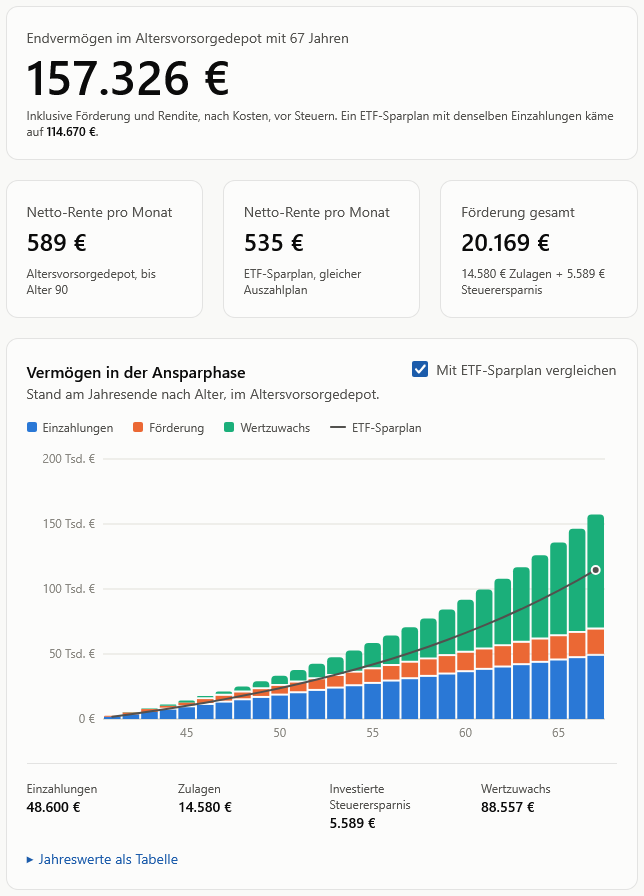
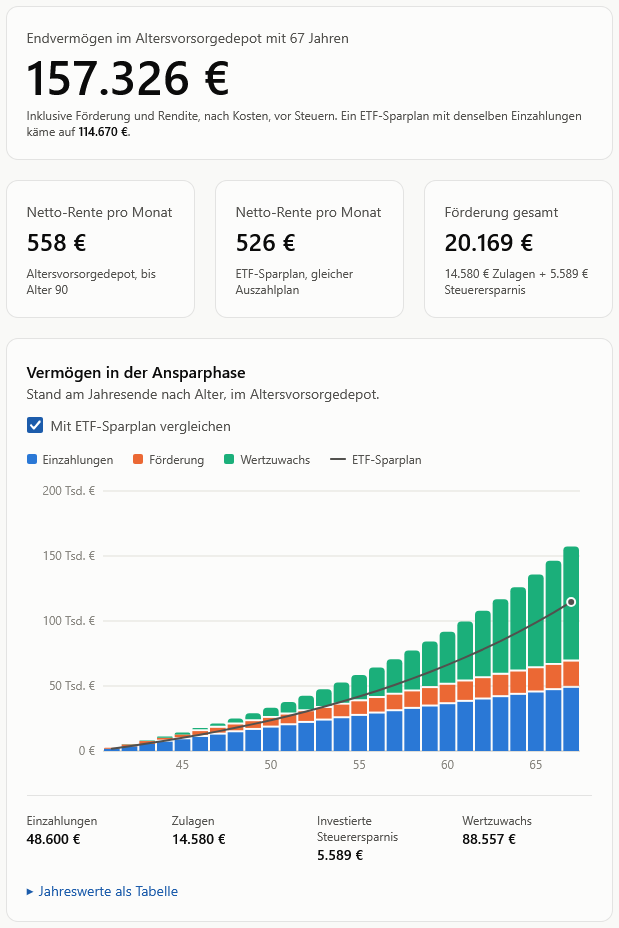
Account for inflation by default; say that the desired pension is in today's purchasing power
The landing page screenshots use a desired pension of 1,850 and the new default.

diff --git a/src/lib/i18n/de.ts b/src/lib/i18n/de.ts
@@ -188,7 +188,7 @@ const numbers: NumberTexts = {
     desiredPension: {
       label: "Monatliche Wunschrente (netto)",
       unit: "€ / Monat",
-      hint: "Netto, was du im Ruhestand zur Verfügung haben möchtest.",
+      hint: "Netto, in heutiger Kaufkraft, was du im Ruhestand zur Verfügung haben möchtest.",
     },
   },
   savings: {
@@ -222,7 +222,7 @@ const toggles: ToggleTexts = {
   shared: {
     considerInflation: {
       label: "Inflation berücksichtigen",
-      hint: "Rentenlücke-Rechner: Renditen nach Abzug der Inflationsrate. AV-Depot-Rechner: Einkommen im Ruhestand auf den Renteneintritt hochgerechnet.",
+      hint: "Rentenlücke-Rechner: Die Wunschrente zählt in heutiger Kaufkraft, die Renditen sinken um die Inflationsrate. AV-Depot-Rechner: Einkommen im Ruhestand auf den Renteneintritt hochgerechnet.",
     },
   },
   "av-depot": {},
@@ -381,7 +381,7 @@ const fieldInfo: FieldInfoTexts = {
     exemptionOrder:
       "Kapitalerträge bis zu diesem Betrag bleiben pro Jahr steuerfrei: 1.000 € für Einzelpersonen, 2.000 € für zusammen Veranlagte. Trage ein, was davon für diese Geldanlage noch frei ist.",
     considerInflation:
-      "Mit Haken wird die Inflationsrate dort berücksichtigt, wo die globalen Werte eine Rolle spielen. Rentenlücke-Rechner: Er rechnet mit der Rendite nach Abzug der Inflationsrate, die Ergebnisse stehen in heutiger Kaufkraft. AV-Depot-Rechner: Das Einkommen im Ruhestand (in heutiger Kaufkraft eingetragen) wird auf das Jahr des Renteneintritts hochgerechnet, bevor die Steuer auf die Auszahlungen berechnet wird; Endvermögen und Renten bleiben nominal, also in künftigen Euro. Ohne Haken sind beide nominal und das Einkommen gilt unverändert. Unabhängig vom Haken rechnet der Gesamtplan immer in heutiger Kaufkraft, Sparrechner und Entnahmeplan haben einen eigenen Schalter und nutzen dann die hier eingestellte Inflationsrate.",
+      "Mit Haken wird die Inflationsrate dort berücksichtigt, wo die globalen Werte eine Rolle spielen. Rentenlücke-Rechner: Die Wunschrente und die Rentenansprüche sind Beträge von heute. Mit Haken rechnet der Rechner deshalb in heutiger Kaufkraft: mit der Rendite nach Abzug der Inflationsrate, sodass auch nötiges Kapital und Sparrate in heutiger Kaufkraft stehen. Ohne Haken würde die Wunschrente wie ein Betrag im Jahr des Renteneintritts behandelt und der Bedarf unterschätzt. AV-Depot-Rechner: Das Einkommen im Ruhestand (in heutiger Kaufkraft eingetragen) wird auf das Jahr des Renteneintritts hochgerechnet, bevor die Steuer auf die Auszahlungen berechnet wird; Endvermögen und Renten bleiben nominal, also in künftigen Euro. Ohne Haken sind beide nominal und das Einkommen gilt unverändert. Unabhängig vom Haken rechnet der Gesamtplan immer in heutiger Kaufkraft, Sparrechner und Entnahmeplan haben einen eigenen Schalter und nutzen dann die hier eingestellte Inflationsrate.",
   },
   "av-depot": {
     savingsRateMonthly:
@@ -411,7 +411,7 @@ const fieldInfo: FieldInfoTexts = {
     yearlyTaxFreeAmount:
       "Einkommen bis zu diesem Betrag bleibt pro Jahr steuerfrei. Der Grundfreibetrag wird jedes Jahr angepasst.",
     desiredPension:
-      "Der Betrag, den du im Ruhestand monatlich netto zur Verfügung haben möchtest. Als Faustregel gelten etwa 80 % des letzten Nettoeinkommens.",
+      "Der Betrag, den du im Ruhestand monatlich netto zur Verfügung haben möchtest, in heutiger Kaufkraft. Mit „Inflation berücksichtigen“ rechnet der Rentenlücke-Rechner damit; ohne den Haken würde der Betrag wie ein Betrag im Jahr des Renteneintritts behandelt. Als Faustregel gelten etwa 80 % des letzten Nettoeinkommens.",
   },
   savings: {
     savingsRateMonthly:
@@ -547,19 +547,19 @@ export const de = {
     ],
     screenshotsHeading: "So sieht es aus",
     screenshotsNote:
-      "Beispiel mit gerundeten Werten, angelehnt an einen durchschnittlichen Arbeitnehmer in Deutschland: 40 Jahre alt, 42.000 € zu versteuerndes Einkommen, 15.000 € Startkapital, 300 € pro Monat zum Investieren, 1.500 € gesetzliche Rente und 1.900 € Wunschrente. Das sind Annahmen zur Veranschaulichung, keine Prognose.",
+      "Beispiel mit gerundeten Werten, angelehnt an einen durchschnittlichen Arbeitnehmer in Deutschland: 40 Jahre alt, 42.000 € zu versteuerndes Einkommen, 15.000 € Startkapital, 300 € pro Monat zum Investieren, 1.500 € gesetzliche Rente und 1.850 € Wunschrente. Das sind Annahmen zur Veranschaulichung, keine Prognose.",
     screenshots: {
       plan: {
         title: "Gesamtplan",
         caption:
           "Reicht die Sparrate? Der Plan zeigt, mit welcher Wahrscheinlichkeit die Wunschrente erreicht wird, welchen Korridor dein Vermögen durchläuft und wie viel mehr oder weniger du sparen solltest.",
-        alt: "Gesamtplan mit Status „Im Plan“, 86 % Wahrscheinlichkeit und dem Diagramm des Vermögens bis zum Renteneintritt",
+        alt: "Gesamtplan mit Status „Im Plan“, 91 % Wahrscheinlichkeit und dem Diagramm des Vermögens bis zum Renteneintritt",
       },
       pensionGap: {
         title: "Rentenlücke",
         caption:
           "Was zwischen erwarteter Rente und Wunschrente fehlt – und welches Kapital und welche Sparrate die Lücke schließen.",
-        alt: "Rentenlückenrechner mit 386 € Lücke pro Monat sowie nötigem Kapital und nötiger Sparrate",
+        alt: "Rentenlückenrechner mit 336 € Lücke pro Monat sowie nötigem Kapital und nötiger Sparrate",
       },
       avDepot: {
         title: "Altersvorsorgedepot",
@@ -1205,7 +1205,7 @@ export const de = {
     phase: "Phase",
     assumptions: [
       "Der Steuerabzug gilt für die Rente oberhalb des Grundfreibetrags und für die Erträge im Ruhestand; die Kapitalertragsteuer mindert die Rendite bis zur Rente.",
-      "Mit Inflation wird mit Renditen nach Abzug der Inflationsrate gerechnet; Rente und Wunschrente bleiben in heutiger Kaufkraft.",
+      "Mit „Inflation berücksichtigen“ (Voreinstellung) gilt die Wunschrente als Betrag in heutiger Kaufkraft: Es wird mit Renditen nach Abzug der Inflationsrate gerechnet, und Kapital, Sparrate und Rentenlücke stehen in heutiger Kaufkraft. Ohne den Haken würde die Wunschrente wie ein Betrag im Jahr des Renteneintritts behandelt.",
       "Sparraten fließen am Monatsende, Entnahmen am Monatsanfang; Zinsen monatlich.",
       "Kranken- und Pflegeversicherung auf die Rente sind nicht berücksichtigt.",
       "Formeln aus den Ergebnissen des Finanzfluss-Rechners hergeleitet.",

diff --git a/src/lib/i18n/en.ts b/src/lib/i18n/en.ts
@@ -35,19 +35,19 @@ export const en: Dictionary = {
     ],
     screenshotsHeading: "What it looks like",
     screenshotsNote:
-      "Example with rounded values, modelled on an average employee in Germany: 40 years old, €42,000 taxable income, €15,000 starting capital, €300 per month to invest, €1,500 statutory pension and a desired pension of €1,900. These are assumptions for illustration, not a forecast.",
+      "Example with rounded values, modelled on an average employee in Germany: 40 years old, €42,000 taxable income, €15,000 starting capital, €300 per month to invest, €1,500 statutory pension and a desired pension of €1,850. These are assumptions for illustration, not a forecast.",
     screenshots: {
       plan: {
         title: "Overall plan",
         caption:
           "Is the savings rate enough? The plan shows how likely the desired pension is to be reached, the corridor your wealth moves in, and how much more or less you should save.",
-        alt: "Overall plan with the status “On plan”, 86% probability and the chart of wealth until retirement",
+        alt: "Overall plan with the status “On plan”, 91% probability and the chart of wealth until retirement",
       },
       pensionGap: {
         title: "Pension gap",
         caption:
           "What is missing between the expected pension and the desired pension – and which capital and savings rate close the gap.",
-        alt: "Pension gap calculator showing a gap of €386 per month and the capital and savings rate needed",
+        alt: "Pension gap calculator showing a gap of €336 per month and the capital and savings rate needed",
       },
       avDepot: {
         title: "Altersvorsorgedepot",
@@ -232,7 +232,7 @@ export const en: Dictionary = {
       exemptionOrder:
         "Investment income up to this amount stays tax-free per year: €1,000 for single persons, €2,000 for couples assessed jointly. Enter what is still available for this investment.",
       considerInflation:
-        "Checked, the inflation rate is taken into account wherever the global values play a role. Pension gap calculator: it uses the return after deducting the inflation rate, and the results are in today's purchasing power. AV-Depot calculator: the income in retirement (entered in today's purchasing power) is raised to the year of retirement before the tax on the payouts is calculated; final wealth and pensions stay nominal, i.e. in future euros. Unchecked, both are nominal and the income is used as entered. Whatever the box says, the overall plan always uses today's purchasing power; the savings calculator and the withdrawal plan have a switch of their own and then use the inflation rate set here.",
+        "Checked, the inflation rate is taken into account wherever the global values play a role. Pension gap calculator: the desired pension and the pension entitlements are amounts of today. Checked, the calculator therefore works in today's purchasing power: with the return after deducting the inflation rate, so the needed capital and savings rate are in today's purchasing power too. Unchecked, the desired pension would be treated like an amount in the year of retirement and the need underestimated. AV-Depot calculator: the income in retirement (entered in today's purchasing power) is raised to the year of retirement before the tax on the payouts is calculated; final wealth and pensions stay nominal, i.e. in future euros. Unchecked, both are nominal and the income is used as entered. Whatever the box says, the overall plan always uses today's purchasing power; the savings calculator and the withdrawal plan have a switch of their own and then use the inflation rate set here.",
     },
     "av-depot": {
       savingsRateMonthly:
@@ -262,7 +262,7 @@ export const en: Dictionary = {
       yearlyTaxFreeAmount:
         "Income up to this amount stays tax-free per year. The basic allowance is adjusted every year.",
       desiredPension:
-        "The amount you want to have available per month in retirement, net. A rule of thumb is about 80% of your last net income.",
+        "The amount you want to have available per month in retirement, net, in today's purchasing power. With “Account for inflation” the pension gap calculator works with it that way; unchecked, the amount would be treated like an amount in the year of retirement. A rule of thumb is about 80% of your last net income.",
     },
     savings: {
       savingsRateMonthly:
@@ -526,7 +526,7 @@ export const en: Dictionary = {
       desiredPension: {
         label: "Desired monthly pension (net)",
         unit: "€ / month",
-        hint: "Net amount you want to have available in retirement.",
+        hint: "Net amount, in today's purchasing power, you want to have available in retirement.",
       },
     },
     savings: {
@@ -560,7 +560,7 @@ export const en: Dictionary = {
     shared: {
       considerInflation: {
         label: "Account for inflation",
-        hint: "Pension gap calculator: returns after deducting the inflation rate. AV-Depot calculator: income in retirement raised to the year of retirement.",
+        hint: "Pension gap calculator: the desired pension counts in today's purchasing power, returns are reduced by the inflation rate. AV-Depot calculator: income in retirement raised to the year of retirement.",
       },
     },
     "av-depot": {},
@@ -1145,7 +1145,7 @@ export const en: Dictionary = {
     phase: "Phase",
     assumptions: [
       "The tax deduction applies to the pension above the basic allowance and to returns in retirement; capital gains tax reduces the return until retirement.",
-      "With inflation, returns are reduced by the inflation rate; pension and desired pension stay in today's purchasing power.",
+      "With “Account for inflation” (the default) the desired pension counts as an amount in today's purchasing power: returns are reduced by the inflation rate, and capital, savings rate and pension gap are in today's purchasing power. Unchecked, the desired pension would be treated like an amount in the year of retirement.",
       "Savings are paid at the end of the month, withdrawals at the beginning; interest monthly.",
       "Health and long-term care insurance on the pension are not included.",
       "Formulas derived from the results of the Finanzfluss calculator.",

diff --git a/src/app/page.tsx b/src/app/page.tsx
@@ -8,9 +8,9 @@ import { getDictionary, getLocale } from "@/lib/i18n/server";
 
 /** Pixel sizes of the screenshots in public/screenshots, per language. */
 const SCREENSHOTS = [
-  { key: "plan", file: "plan", size: { de: [644, 853], en: [644, 869] } },
-  { key: "pensionGap", file: "pension-gap", size: { de: [644, 538], en: [644, 538] } },
-  { key: "avDepot", file: "av-depot", size: { de: [644, 896], en: [644, 912] } },
+  { key: "plan", file: "plan", size: { de: [619, 869], en: [619, 869] } },
+  { key: "pensionGap", file: "pension-gap", size: { de: [619, 652], en: [619, 668] } },
+  { key: "avDepot", file: "av-depot", size: { de: [619, 928], en: [619, 912] } },
 ] as const;
 
 const button =

diff --git a/src/lib/settings/schema.ts b/src/lib/settings/schema.ts
@@ -104,7 +104,8 @@ export const numberFields = {
 } satisfies Record<string, Record<string, NumberFieldSpec>>;
 
 export const toggleFields = {
-  shared: { considerInflation: false },
+  // On by default: the desired pension is entered in today's purchasing power.
+  shared: { considerInflation: true },
   "av-depot": {},
   "pension-gap": {
     /** Calculate the saving phase like the savings calculator (its tax, costs, interval). */

diff --git a/TODO.md b/TODO.md
@@ -33,6 +33,10 @@ different numbers here than there.
 | Default values here | €200,002 | €237.50 | €542,659 | €644.39 |
 | Age 30, payout until 100, return until retirement 5 % | €309,185 | €327.51 | €542,659 | €574.81 |
 
+These numbers are with "Inflation berücksichtigen" switched off. The switch is
+on by default now (the desired pension is in today's purchasing power); with the
+default values the capital is then €231,049 and the savings rate €362.75.
+
 The second row is the result of the Finanzfluss page. The pension gap itself is
 €1,153 per month in both cases.
 
